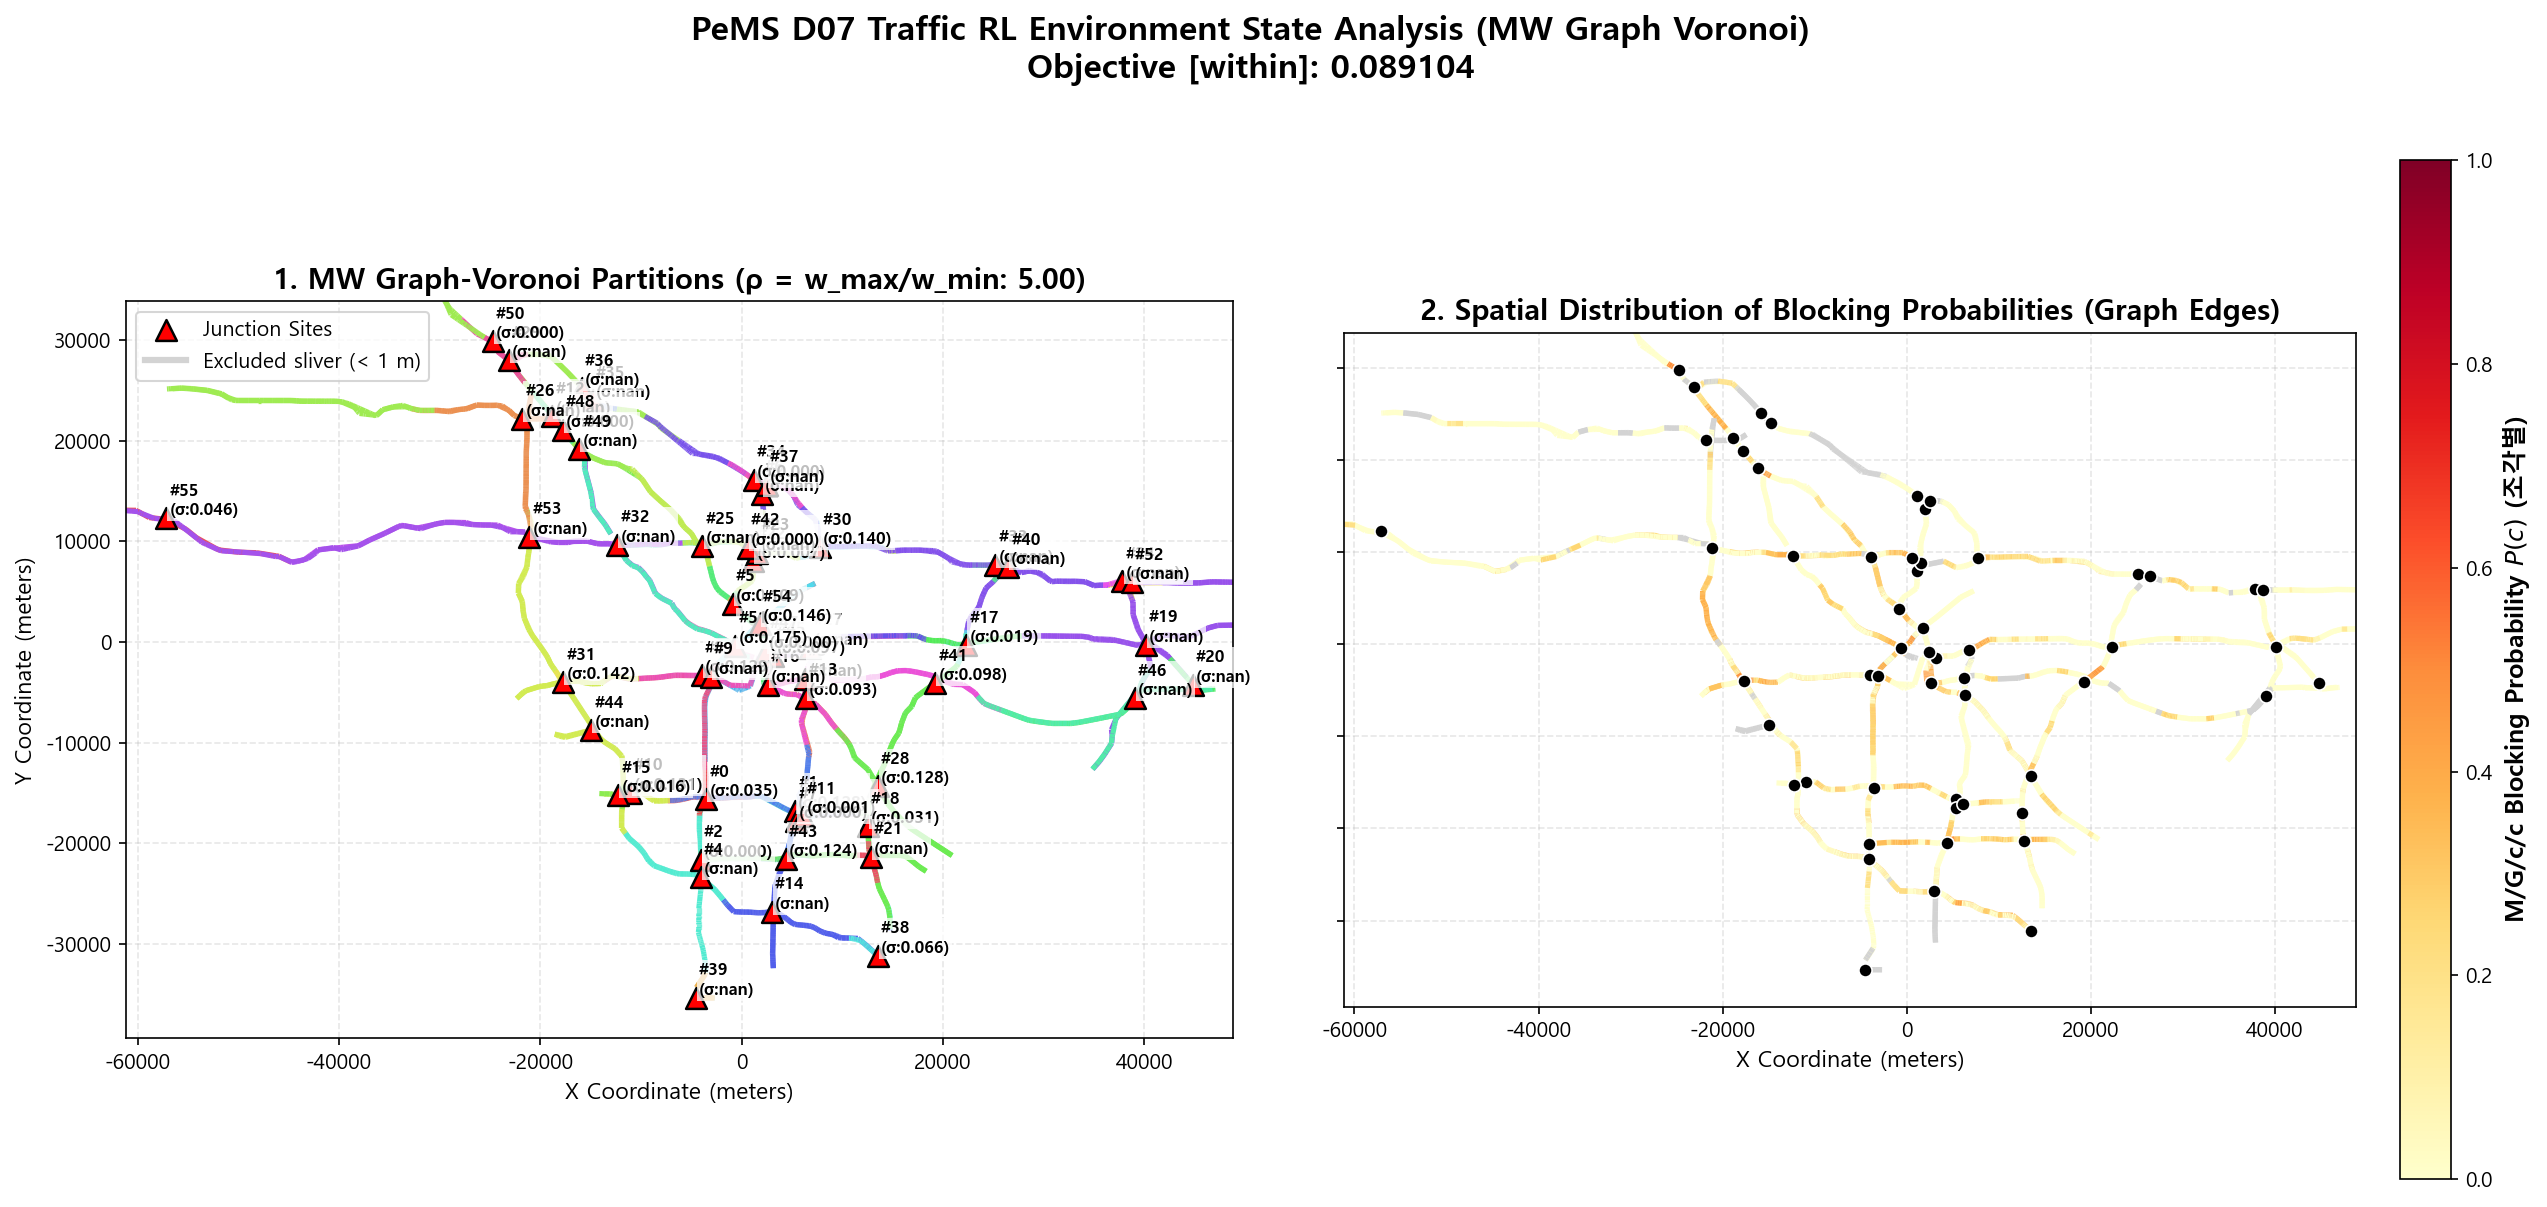
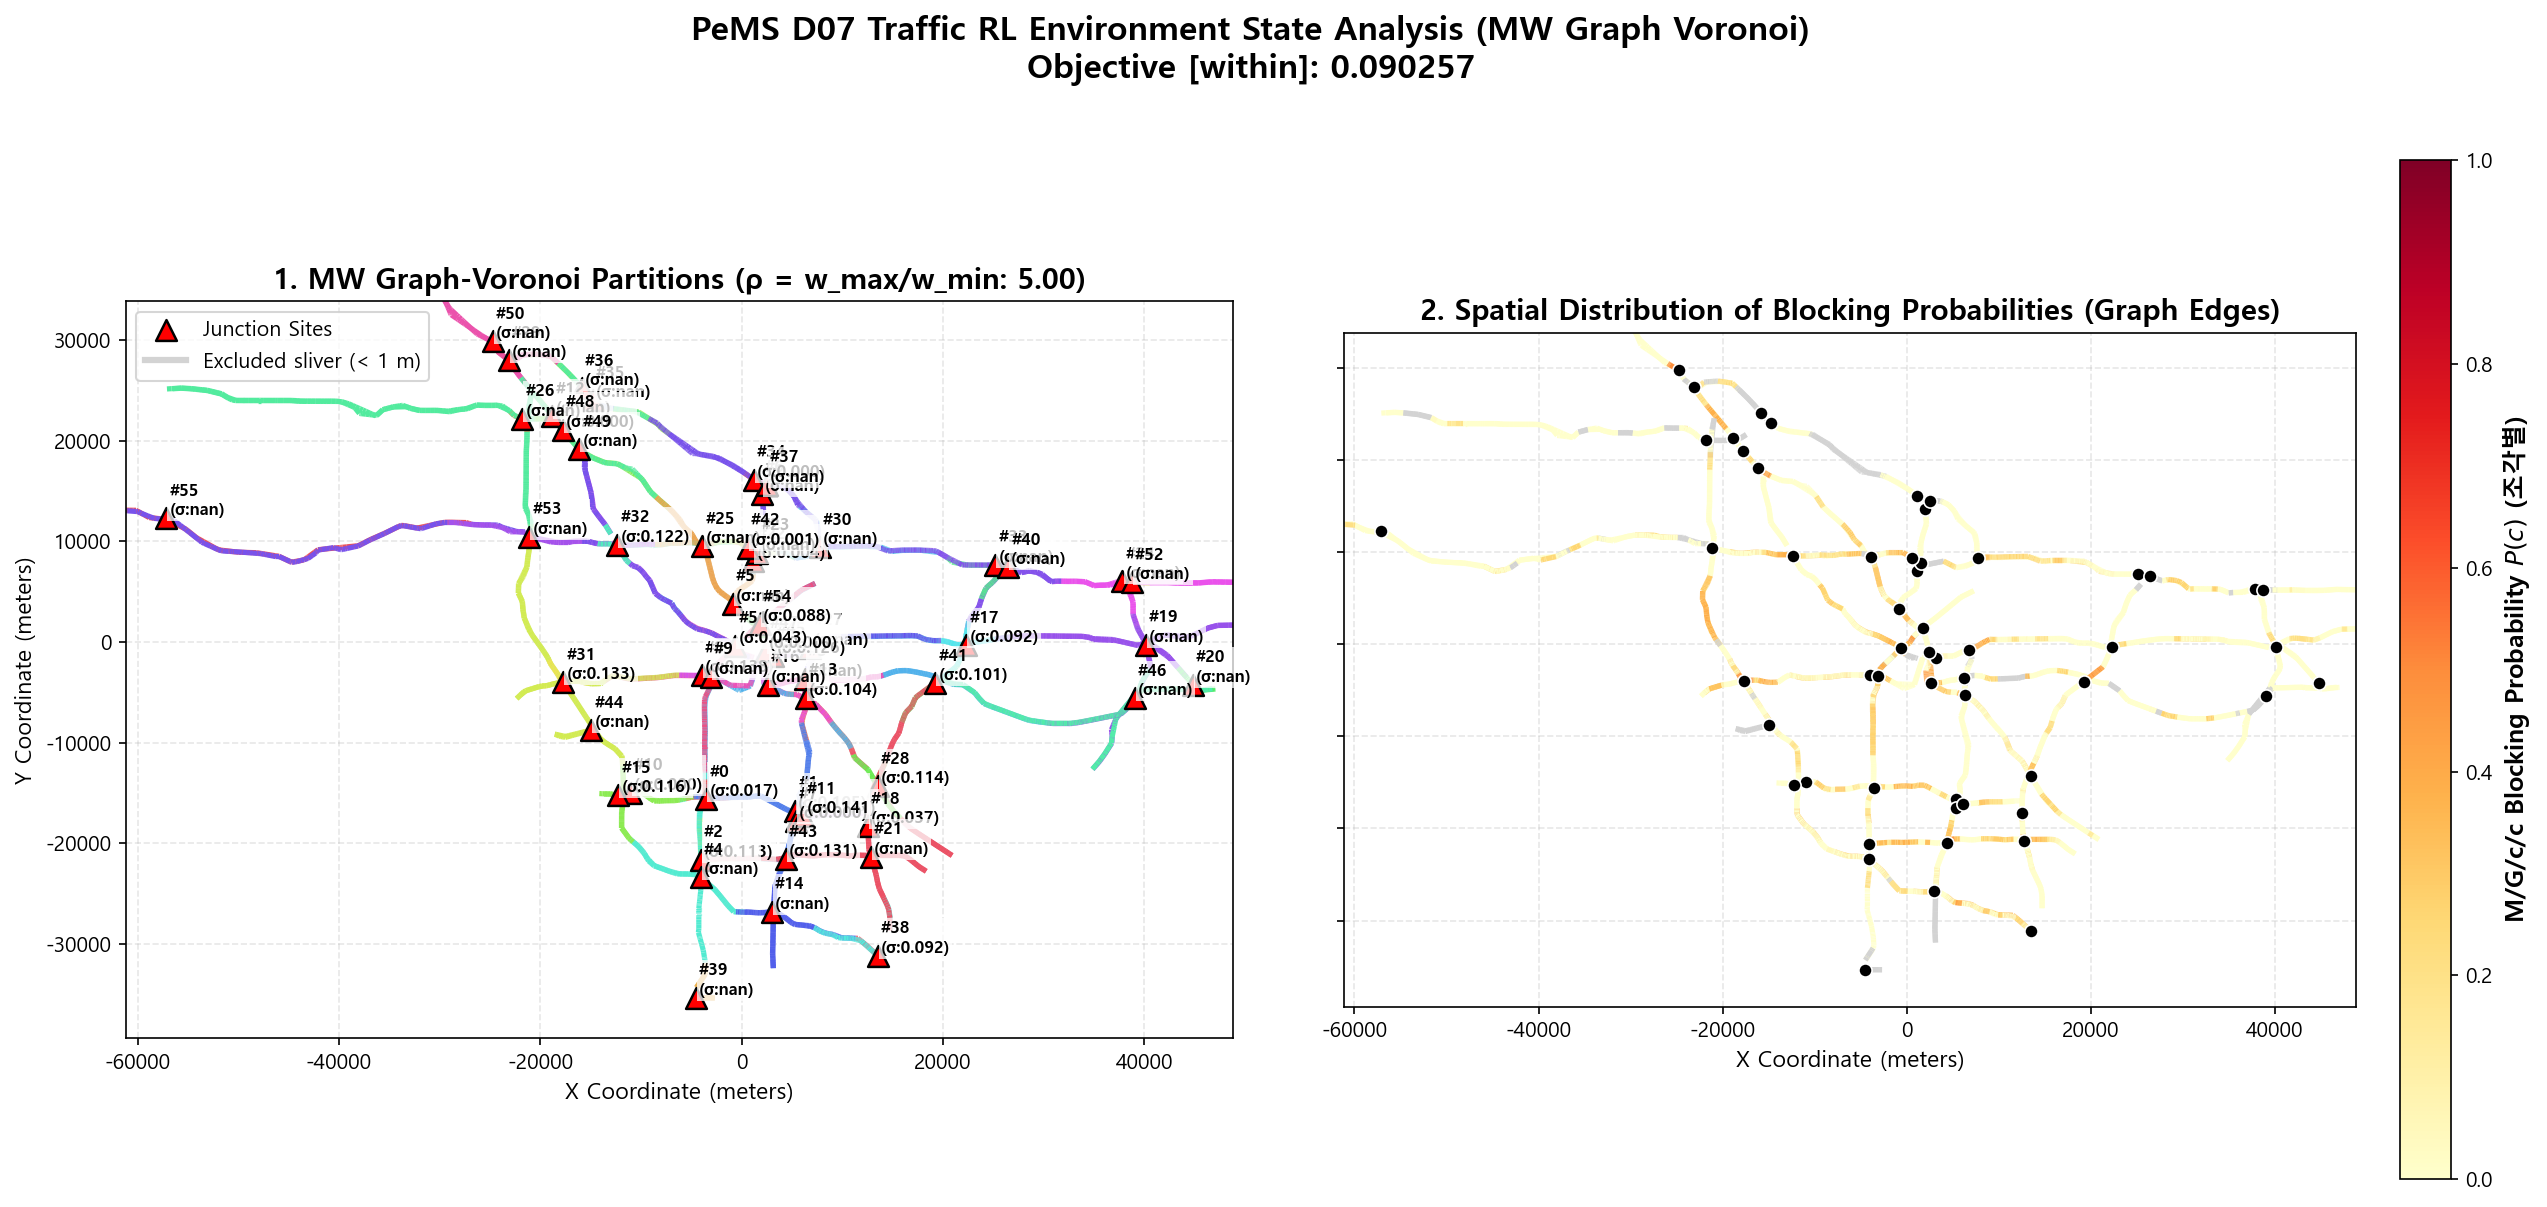
bug fixxed

diff --git a/features/data_preprocessing/vor_sd/rl_env_vor_show.py b/features/data_preprocessing/vor_sd/rl_env_vor_show.py
@@ -188,23 +188,24 @@ def random_search_best_a(env, iters=200, seed=42):
     최단거리 기준에서는 최적이 아니므로, 그래프 버전으로 재학습해 갱신해야 한다.
     또 값의 범위(±0.81)는 rho_max=5 (a_bound=ln5/2≈0.805) 학습 결과라,
     아래 __main__ 이 쓰는 기본 rho_max=2 (a_bound≈0.347) 보다 넓다."""
-    x = [-0.46003652,  0.79388923, -0.81554869,  0.79388923,  0.57641288 ,-0.81554869,
-  0.72619487, -0.32531135,  0.79388923,  0.68316196, -0.81554869, -0.81554869,
- -0.34454446,  0.79388923,  0.79388923, -0.81554869,  0.79388923, -0.81554869,
- -0.81554869,  0.57065552,  0.79388923, -0.6703975 , -0.49259775,  0.79388923,
- -0.81554869,  0.79388923,  0.10761414,  0.58522164,  0.79388923, -0.62617607,
-  0.00144334, -0.81554869,  0.66061639, -0.38285376, -0.79314214, -0.81554869,
-  0.68696046,  0.53911715, -0.08145936, -0.81554869,  0.79388923,  0.38703136,
- -0.81554869, -0.81554869,  0.79388923,  0.08453524,  0.65153859, -0.81554869,
- -0.78110814,  0.02867462, -0.81554869,  0.79388923, -0.74407895,  0.79388923,
-  0.79388923, -0.26258025]
+    x = [-0.79426757 , 0.66747757,  0.20282636, -0.06653599,  0.80158351,  0.49406705,
+  0.69944818 ,-0.57269679 , 0.80158351,  0.80158351, -0.42666669 , 0.63910317,
+  0.49580206 ,-0.01356709 , 0.27130863,  0.37320597,  0.03198263 ,-0.8078544,
+ -0.50651805 , 0.32704624 ,-0.25084041,  0.5406728 , -0.69678164 ,-0.11670329,
+  0.46863978 ,-0.01871506 ,-0.8078544 ,  0.31275646, -0.60338359 ,-0.8078544,
+  0.46585443 ,-0.33263067 ,-0.60464305, -0.31266501, -0.6548776  ,-0.8078544,
+  0.4664359  ,-0.02178422  ,0.72828239, -0.20276264,  0.39298267 ,-0.49520908,
+ -0.69331466 ,-0.8078544   ,0.80158351 , 0.41831631,  0.41805437 , 0.09270113,
+ -0.49532246 , 0.41860901 , 0.5022547 , -0.8078544 , -0.11662466 ,-0.8078544,
+  0.40383831 , 0.61349091]
+
     return np.array(x)
 
 
 if __name__ == "__main__":
     DIR = str(REPO_ROOT / "features" / "data_preprocessing" / "vor_sd")
 
-    SEGMENTS_FILE = f"{DIR}/outputs_2008/pems_d07_segments_0841_after.csv"
+    SEGMENTS_FILE = f"{DIR}/outputs_2008/pems_d07_segments"
     SITES_FILE = f"{DIR}/outputs/pems_d07_sites.csv"
     META_FILE = f"{DIR}/d07_text_meta_2018_10_13.txt"
 

diff --git a/SAC/softlearning-master/softlearning/sac_algorithm.py b/SAC/softlearning-master/softlearning/sac_algorithm.py
@@ -45,10 +45,12 @@ class SAC:
         self.q2_optimizer = tf.optimizers.Adam(q_lr)
         self.alpha_optimizer = tf.optimizers.Adam(alpha_lr)
         
-        # Entropy parameter
-        self.log_alpha = tf.Variable(0.0, trainable=True) # 역전파로 학습 -> 엔트로피 온도 계수의 log값.
-                                                          # alpha가 크면 많이 바뀐다.
-        self.target_entropy = -float(action_dim)  # 2D action space
+        # Entropy parameter. alpha 초기값 0.2, 하한 0.02 (아래 update_alpha 에서 클립).
+        # target_entropy 는 -dim 휴리스틱의 절반 (평평한 보상에서 alpha 가 0 으로
+        # 붕괴하는 것 완화).
+        self.log_alpha = tf.Variable(float(np.log(0.2)), trainable=True)
+        self.log_alpha_min = float(np.log(0.02))
+        self.target_entropy = -0.5 * float(action_dim)
         
         self.discount = discount
         self.tau = tau
@@ -141,7 +143,8 @@ class SAC:
         
         alpha_grad = tape.gradient(alpha_loss, [self.log_alpha])
         self.alpha_optimizer.apply_gradients(zip(alpha_grad, [self.log_alpha]))
-        
+        self.log_alpha.assign(tf.maximum(self.log_alpha, self.log_alpha_min))  # 하한
+
         return alpha_loss
     
     def train_step(self, batch):
